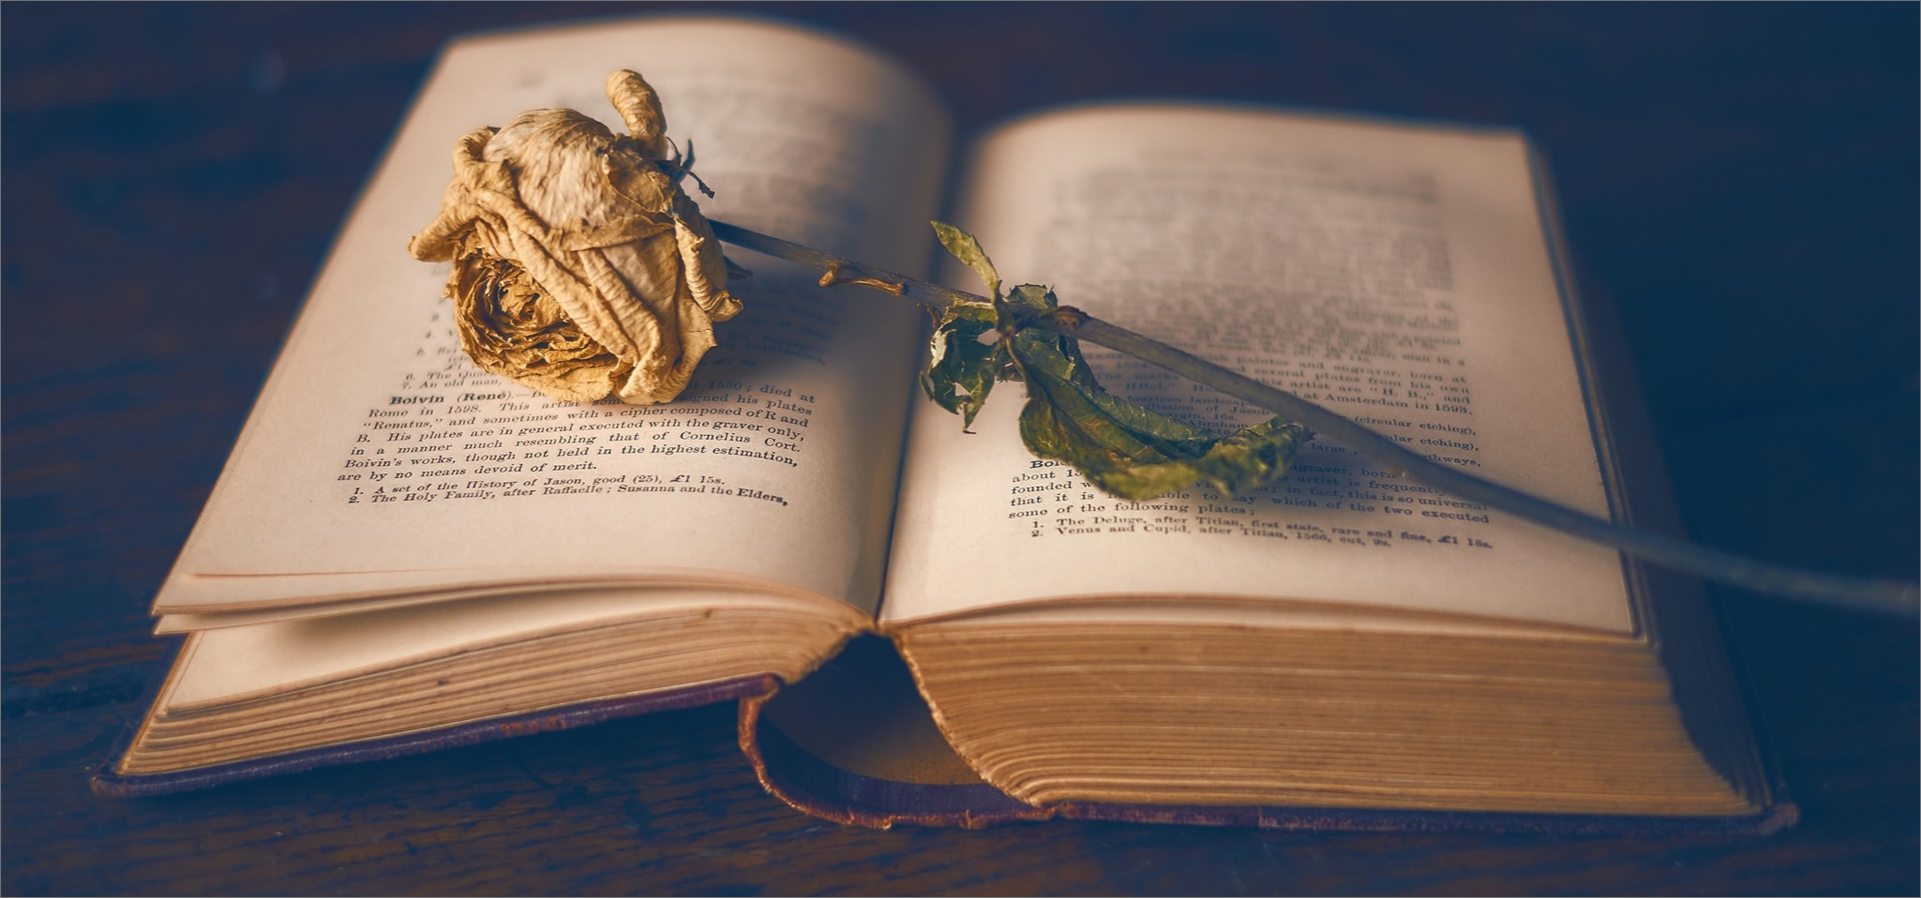
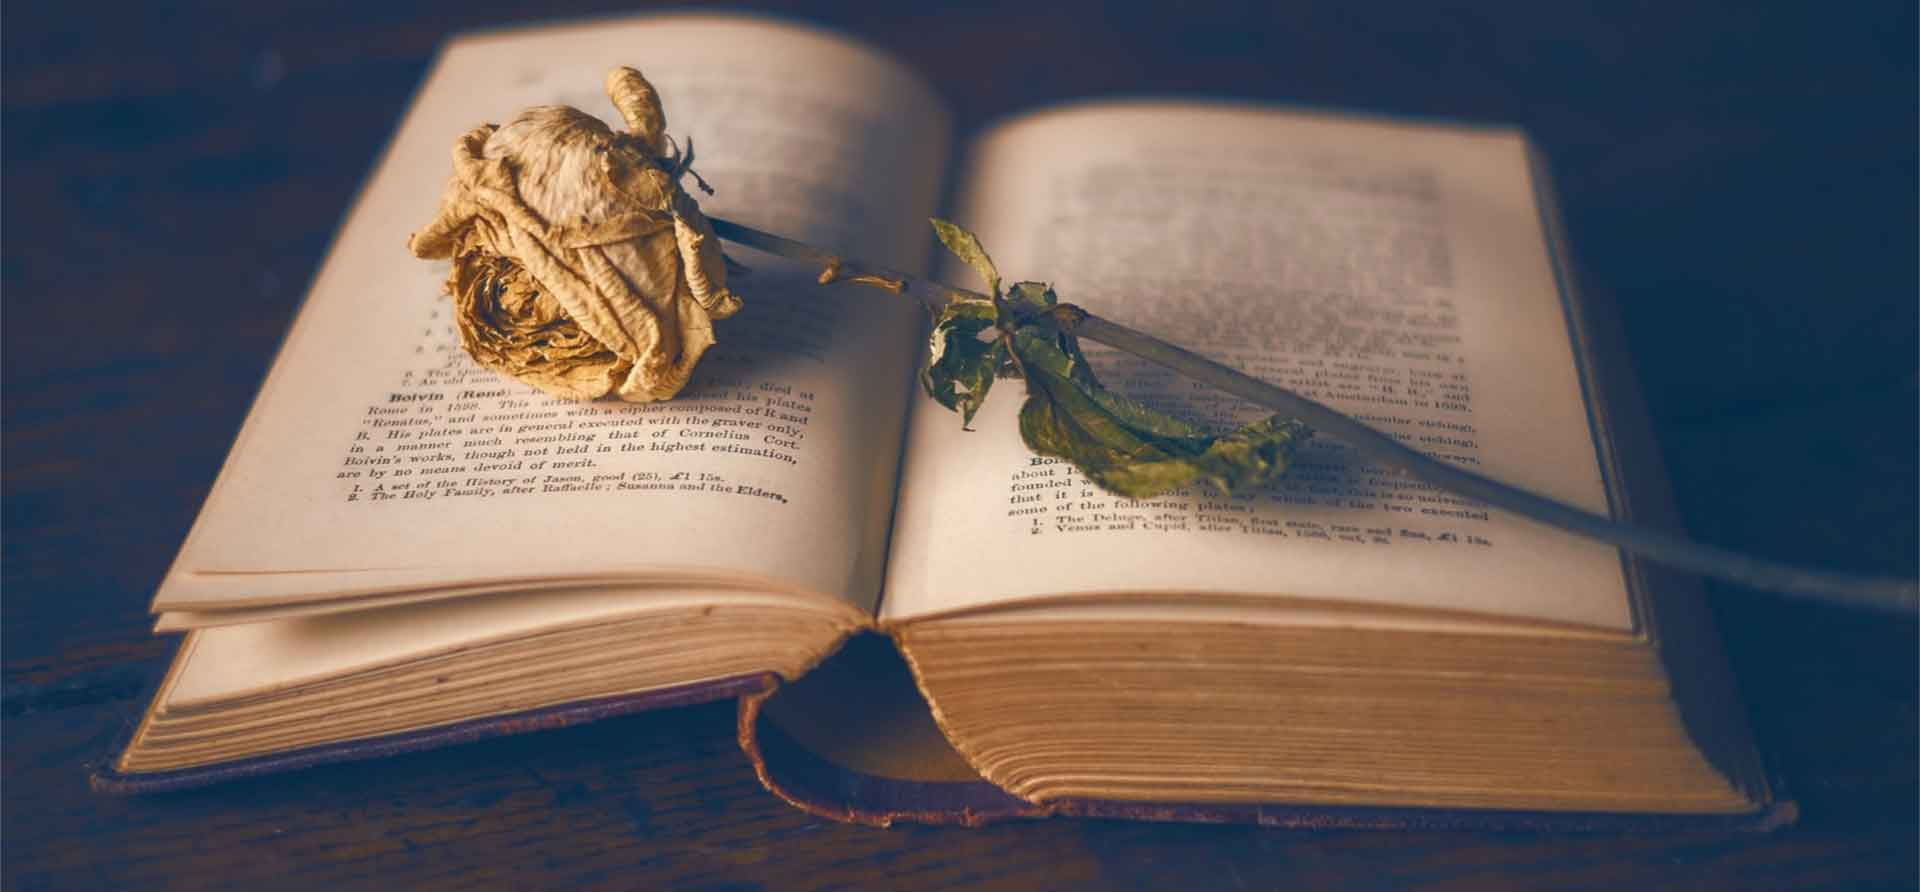
Cambios
Se hicieron cambios en las imágenes, se redujo el tamaño de todas las imágenes

diff --git a/index.html b/index.html
@@ -16,7 +16,7 @@
     <div class="container"></div>
     <nav class="navbar navbar-expand-lg navbar-light bg-light">
       <a class="navbar-brand" href="index.html">
-        <img src="img/LUOXOS.jpg" alt="Loxous" class = "img-fluid">
+        <img src="img/LUOXOS.png" alt="Loxous" class = "img-fluid">
       </a>
       <button class="navbar-toggler" type="button" data-toggle="collapse" data-target="#navbarSupportedContent"
         aria-controls="navbarSupportedContent" aria-expanded="false" aria-label="Toggle navigation">
@@ -89,13 +89,13 @@
             <img class="d-block w-100" src="img/book-dry.jpg" alt="First slide">
           </div>
           <div class="carousel-item">
-            <img class="d-block w-100" src="img/bookopencover.jpg" alt="Second slide">
+            <img class="d-block w-100" src="img/book-open.jpg" alt="Second slide">
           </div>
           <div class="carousel-item">
-            <img class="d-block w-100" src="img/booksleavescover.jpg" alt="Third slide">
+            <img class="d-block w-100" src="img/books-leaves.jpg" alt="Third slide">
           </div>
           <div class="carousel-item">
-            <img class="d-block w-100" src="img/bookscover.jpg" alt="Third slide">
+            <img class="d-block w-100" src="img/stack-books.jpg" alt="Third slide">
           </div>
         </div>
         <a class="carousel-control-prev" href="#clb" role="button" data-slide="prev">
@@ -115,19 +115,19 @@
         <h2 class = "titulos">Bestsellers</h2>
         <div class="row">
           <article class="col-md-2 col-sm-2 col-xs-12">
-            <img src="img/cook.jpg" alt="bookCook" class = "img-fluid">
+            <img src="img/book-cook-once.jpg" alt="bookCook" class = "img-fluid">
           </article>
           <article class="col-md-2 col-sm-2 col-xs-12">
-            <img src="img/joy.jpg" alt="bookJoy" class = "img-fluid">
+            <img src="img/book-joy.jpg" alt="bookJoy" class = "img-fluid">
           </article>
           <article class="col-md-2 col-sm-2 col-xs-12">
-            <img src="img/king.jpg" alt="bookKing" class = "img-fluid">
+            <img src="img/book-outsider.jpg" alt="bookKing" class = "img-fluid">
           </article>
           <article class="col-md-2 col-sm-2 col-xs-2">
-            <img src="img/thesub.jpg" alt="bookSub" class = "img-fluid">
+            <img src="img/book-subtle-art.jpg" alt="bookSub" class = "img-fluid">
           </article>
           <article class="col-md-2 col-sm-2 col-xs-12">
-            <img src="img/mihistoria.jpg" alt="bookMi" class = "img-fluid">
+            <img src="img/book-mi-historia.jpg" alt="bookMi" class = "img-fluid">
           </article>
         </div>
       </div>
@@ -138,19 +138,19 @@
       <h2 class = "titulos">News</h2>
       <div class="row">
         <article class="col-md-2 col-sm-2 col-xs-12">
-          <img src="img/bookTh.jpg" alt="bookTh" class = "img-fluid">
+          <img src="img/book-thief.jpg" alt="bookTh" class = "img-fluid">
         </article>
         <article class="col-md-2 col-sm-2 col-xs-12">
-          <img src="img/silentPat.jpg" alt="bookPat" class = "img-fluid">
+          <img src="img/book-the-silent-patient.jpg" alt="bookPat" class = "img-fluid">
         </article>
         <article class="col-md-2 col-sm-2 col-xs-12">
-          <img src="img/staySexy.jpg" alt="bookStay" class = "img-fluid">
+          <img src="img/book-stay-sexy.jpg" alt="bookStay" class = "img-fluid">
         </article>
         <article class="col-md-2 col-sm-2 col-xs-12">
-          <img src="img/john.jpg" alt="bookJohn" class = "img-fluid">
+          <img src="img/book-the-reckoning.jpg" alt="book the reckoning" class = "img-fluid">
         </article>
         <article class="col-md-2 col-sm-2 col-xs-12">
-          <img src="img/thisWay.jpg" alt="bookMi" class = "img-fluid">
+          <img src="img/book-not-supposed-to.jpg" alt="book not supposed to be thi way" class = "img-fluid">
         </article>
       </div>
     </div>
@@ -215,7 +215,7 @@
           </article>
 
           <article class="col-md-4 col-sm-4 col-xs-12">
-              <img src="img/pajaroLogo.jpg" height="150px" alt="pajaroLogo" >
+              <img src="img/pajaroLogo.png" height="150px" alt="pajaroLogo" >
           </article>
           <article class="col-md-4 col-sm-4 col-xs-12">
             <ul class = "list-inline redes">

diff --git a/About.html b/About.html
@@ -16,7 +16,7 @@
     <div class="container"></div>
     <nav class="navbar navbar-expand-lg navbar-light bg-light">
       <a class="navbar-brand" href="index.html">
-        <img src="img/LUOXOS.jpg" alt="Loxous" class = "img-fluid">
+        <img src="img/LUOXOS.png" alt="Loxous" class = "img-fluid">
       </a>
       <button class="navbar-toggler" type="button" data-toggle="collapse" data-target="#navbarSupportedContent"
         aria-controls="navbarSupportedContent" aria-expanded="false" aria-label="Toggle navigation">
@@ -74,21 +74,21 @@
       </div>
     </nav>
   </header>
-	
+
 	<section id="about">
 		<div class="container">
 			<h2>About</h2>
 			<div class="row">
 				<article class="col-md-6 col-xs-12 ab1">
-					<img src="img/about1.png" class="img-fluid" alt="about1">
+					<img src="img/person-counter.jpg" class="img-fluid" alt="person counter">
 				</article>
 				<article class="col-md-6 col-xs-12 ab1">
-					<img src="img/about2.png" class="img-fluid" alt="about1">
+					<img src="img/person-chilling.jpg" class="img-fluid" alt="person chilling">
 				</article>
 			</div>
 		</div>
 	</section>
-	
+
 	<section id="history">
 		<div class="container">
 			<h2>A Brief History</h2>
@@ -100,20 +100,20 @@
 			<p>We adopted a new dog and a new cat along the way. Some of us have gotten married and had kids of our own, so we’re still laughing about how our children will run the shop someday.</p>
 		</div>
 	</section>
-	
+
 	<section id="aboutimg">
 		<div class="container">
 			<div class="row">
 				<article class="col-md-6 col-xs-12 ab2">
-					<img src="img/about3.png" class="img-fluid" alt="about3">
+					<img src="img/books-in-shelf.jpg" class="img-fluid" alt="Book in shelf">
 				</article>
 				<article class="col-md-6 col-xs-12 ab2">
-					<img src="img/about4.png" class="img-fluid" alt="about3">
+					<img src="img/dog.jpg" class="img-fluid" alt="Dog">
 				</article>
 			</div>
 		</div>
 	</section>
-	
+
   <footer>
     <section id = "info-footer">
       <div class="container">
@@ -129,7 +129,7 @@
           </article>
 
           <article class="col-md-4 col-sm-4 col-xs-12">
-              <img src="img/pajaroLogo.jpg" height="150px" alt="pajaroLogo" >
+              <img src="img/pajaroLogo.png" height="150px" alt="pajaroLogo" >
           </article>
           <article class="col-md-4 col-sm-4 col-xs-12">
             <ul class = "list-inline redes">

diff --git a/css/style.css b/css/style.css
@@ -6,7 +6,7 @@ body{
 }
 
 header{
-  background-image: url("../img/rectan-2.jpg");
+  background-image: url("../img/rectan-2.png");
   background-repeat: no-repeat;
   background-position: center;
   background-size: cover;
@@ -78,7 +78,7 @@ a:hover{
 }
 
 footer{
-  background-image: url("../img/rectan-2.jpg");
+  background-image: url("../img/rectan-2.png");
   background-repeat: no-repeat;
   background-position: center;
   background-size: cover;
